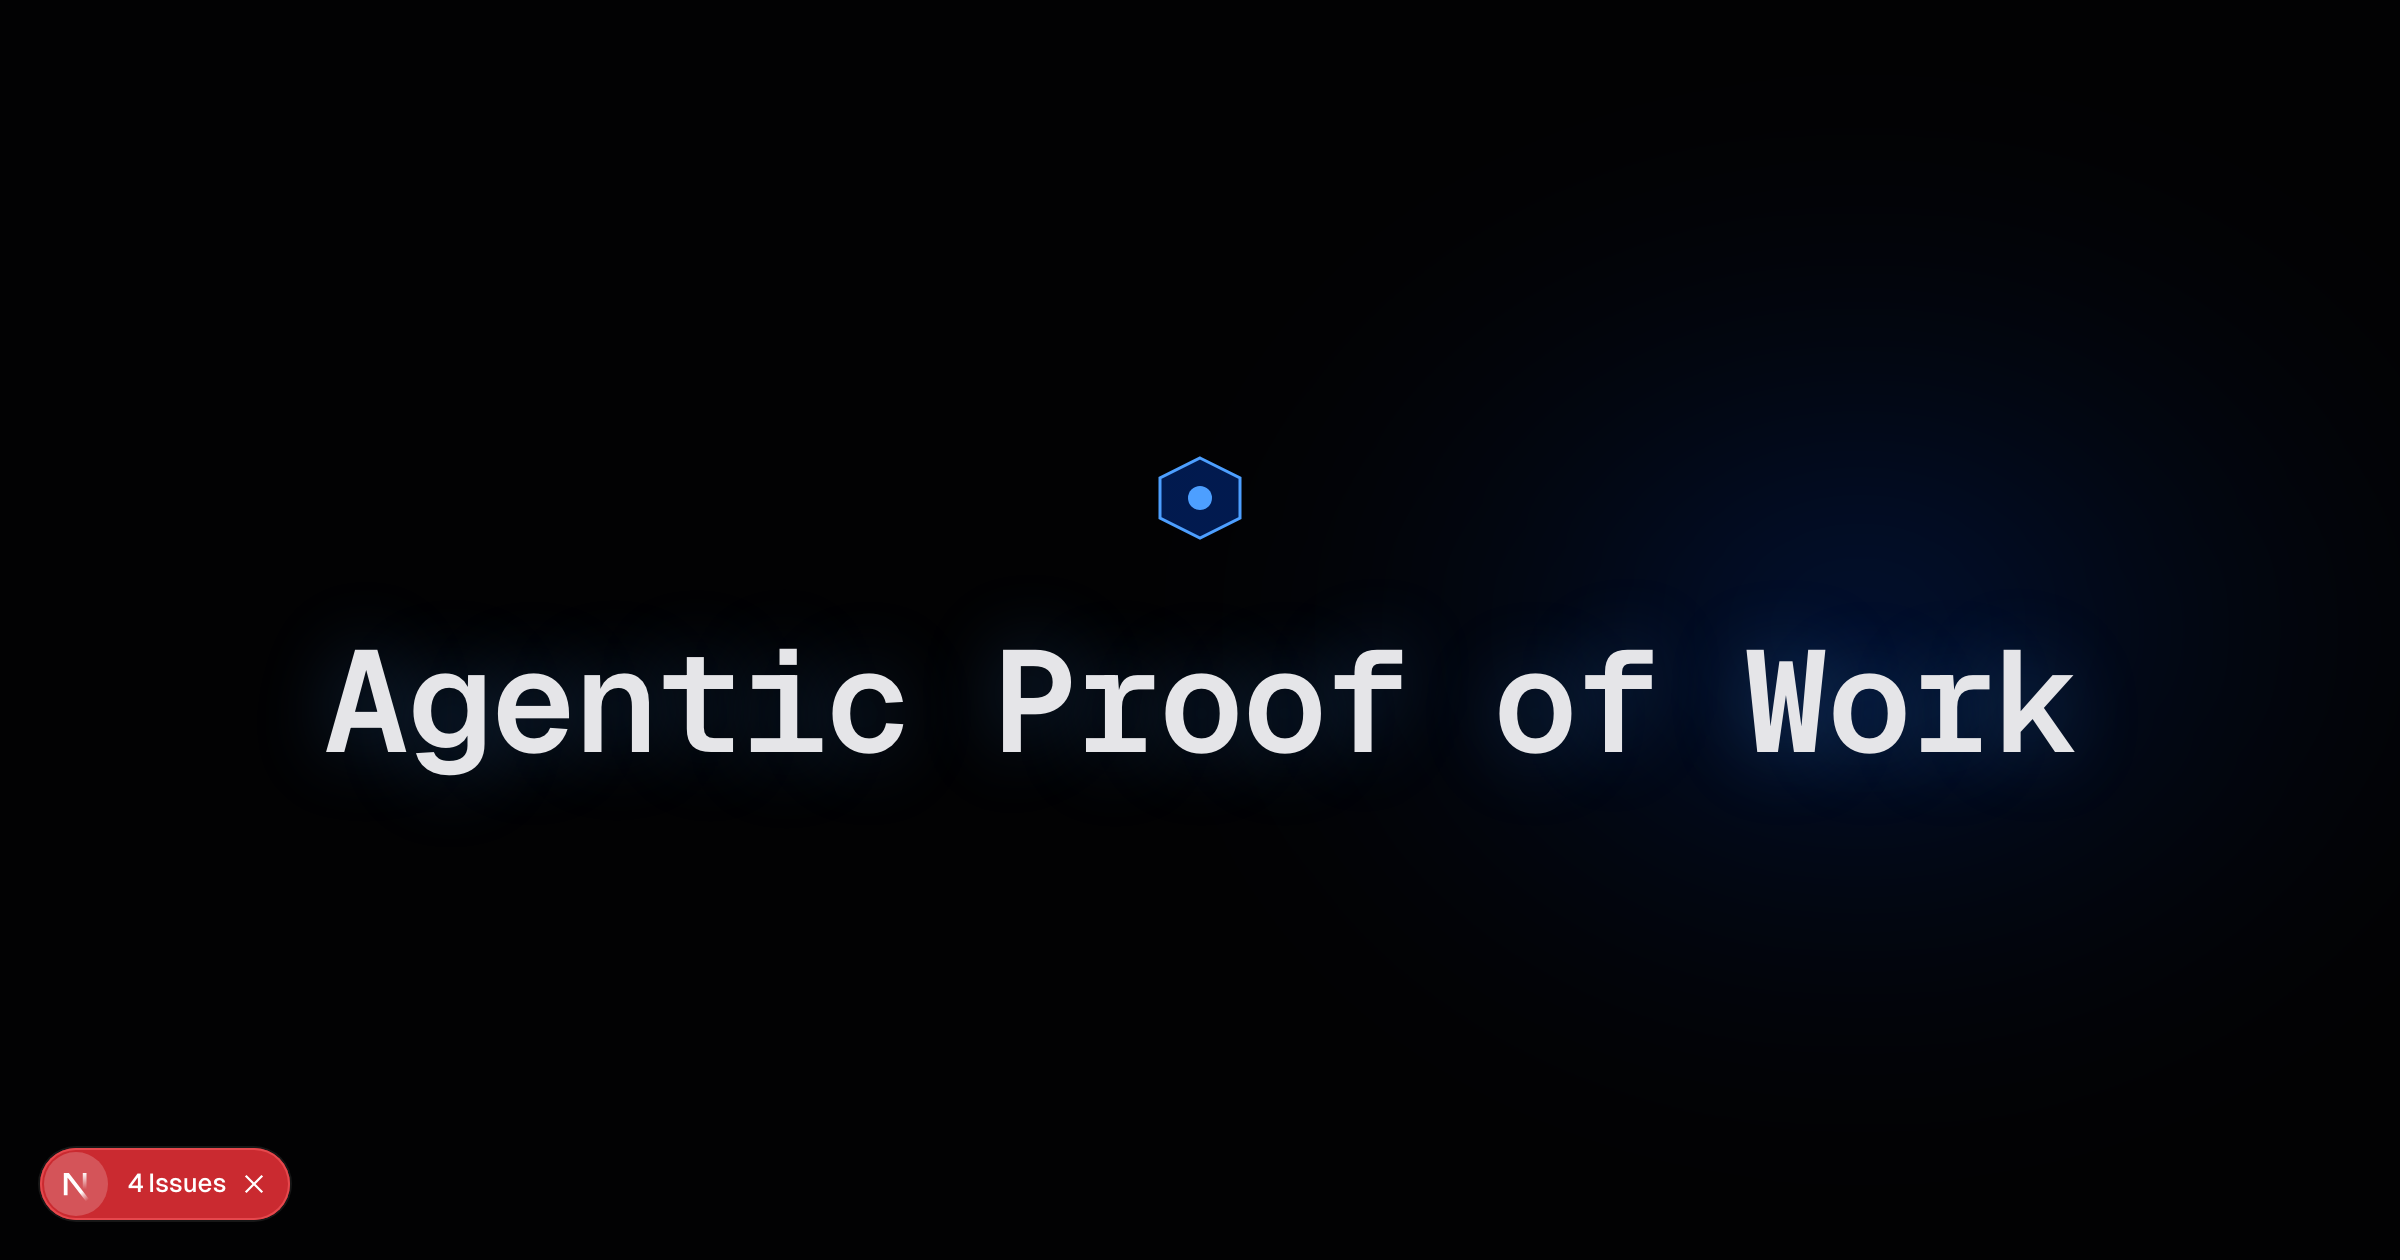
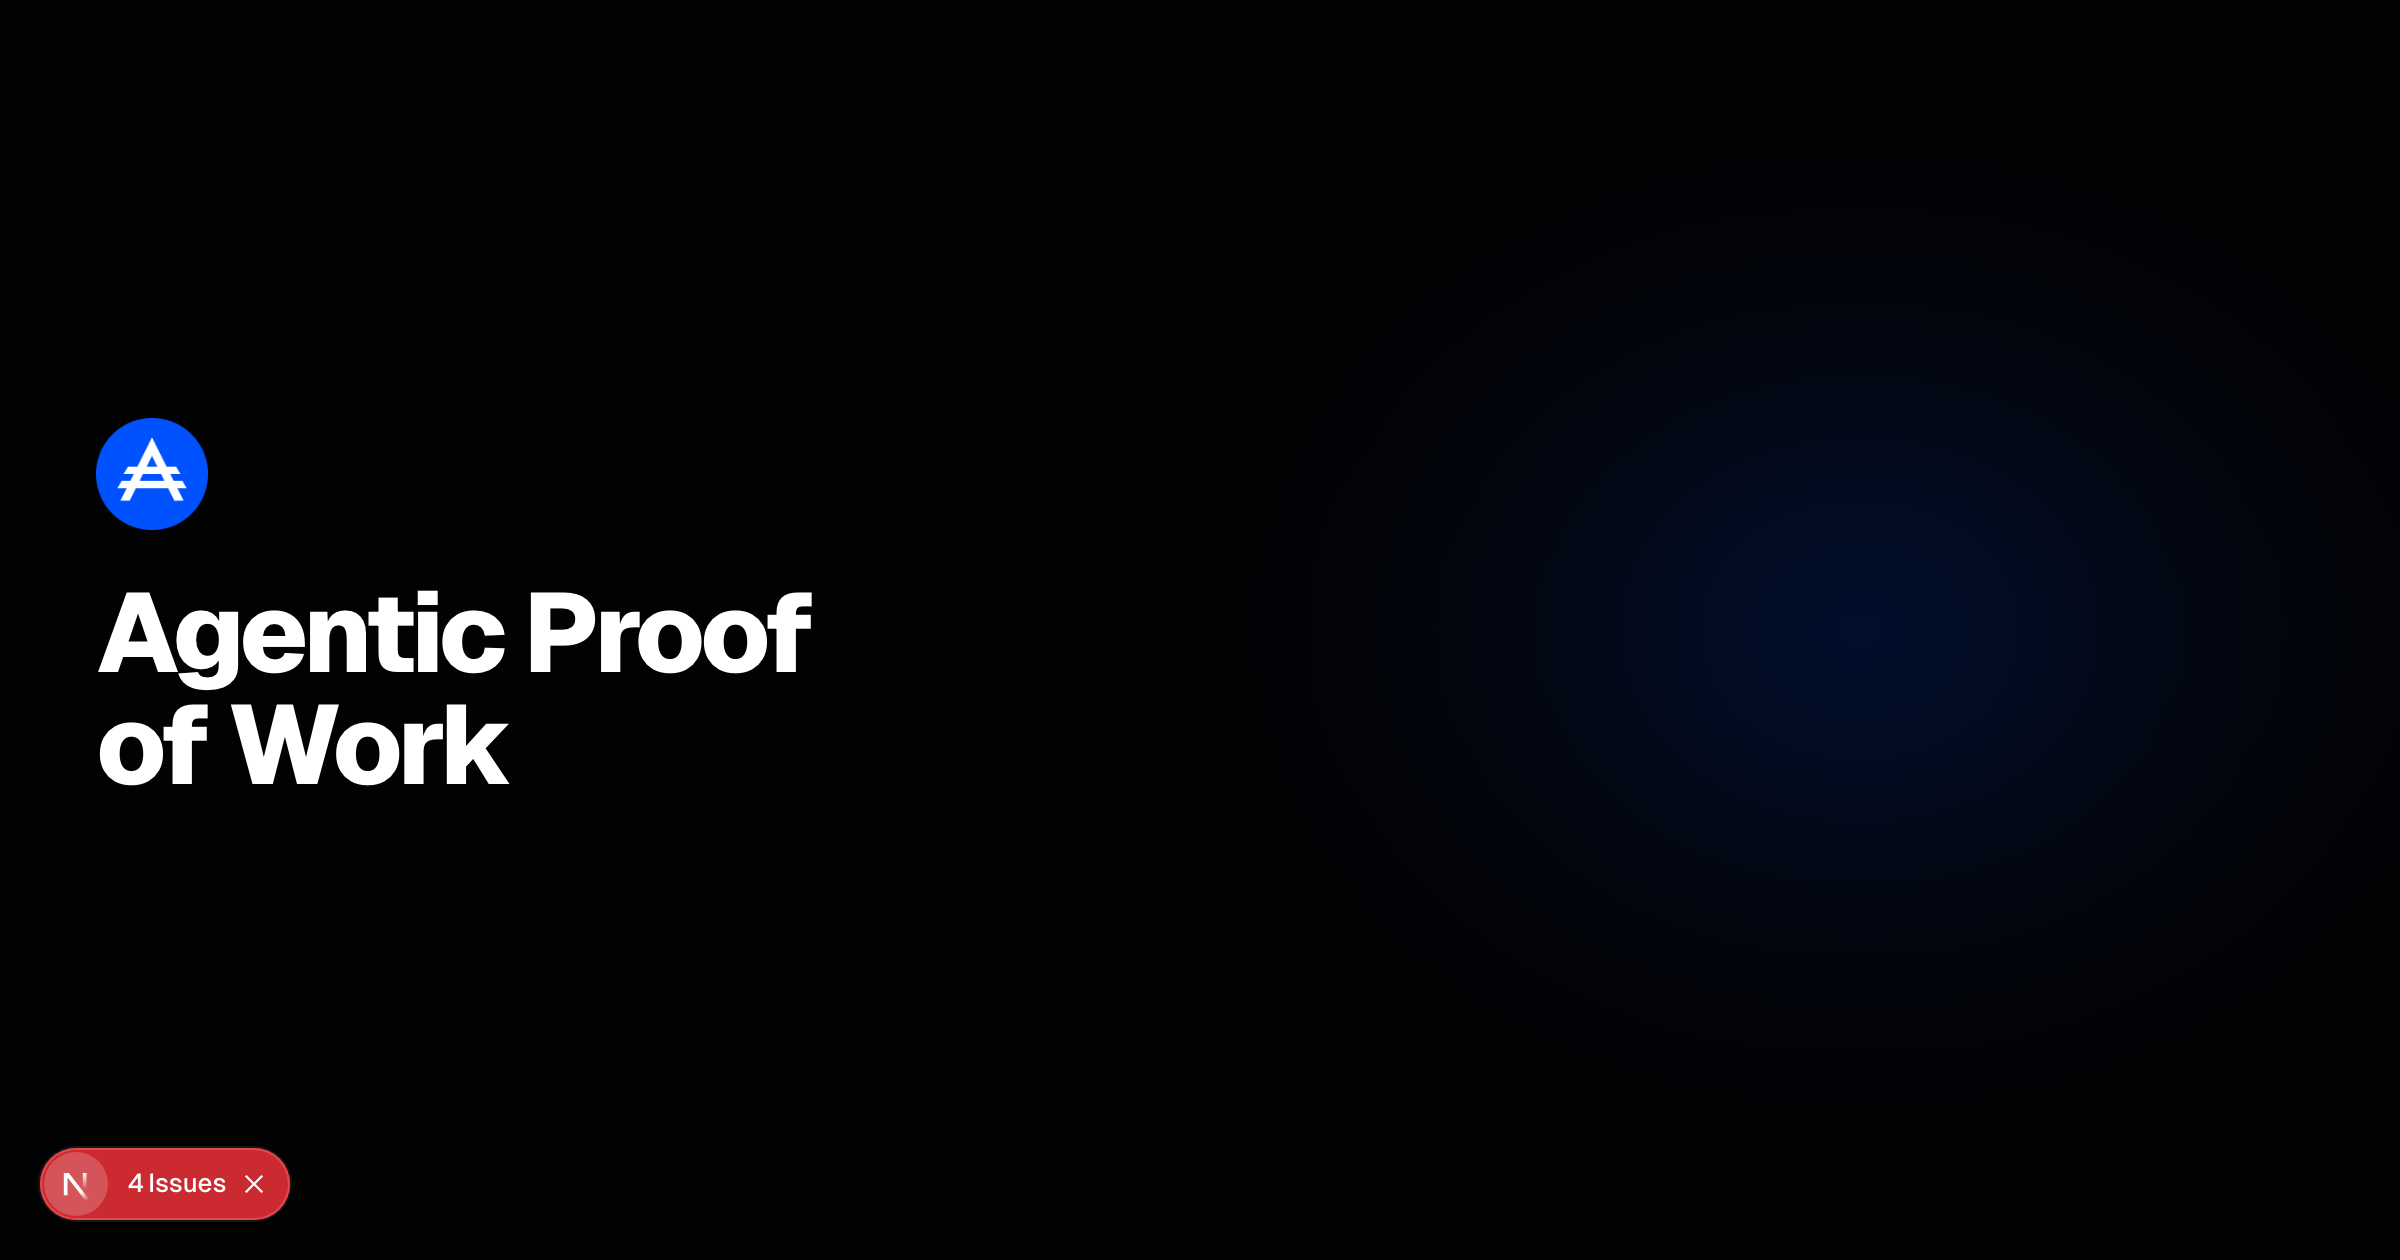
Fix OG preview to exactly match hero section
- Use exact same layout, fonts, and sizing as main hero
- Include actual logo.png image
- Match DitheredHero positioning and styling
- Remove custom SVG, use real components

diff --git a/apps/website/src/app/og-preview/page.tsx b/apps/website/src/app/og-preview/page.tsx
@@ -12,44 +12,19 @@ export default function OGPreview() {
 
   return (
     <div className="w-[1200px] h-[630px] bg-[oklch(0.09_0.005_270)] relative overflow-hidden">
-      {/* WebGL Background */}
+      {/* WebGL Background - exact same as hero */}
       <div className="absolute inset-0">
         <DitheredHero onReady={() => setReady(true)} />
       </div>
 
-      {/* Content Overlay */}
-      <div className="absolute inset-0 flex items-center justify-center">
-        <div className="text-center">
-          {/* Logo */}
-          <div className="flex items-center justify-center gap-3 mb-6">
-            <svg width="48" height="48" viewBox="0 0 48 48" fill="none">
-              <path
-                d="M24 4L44 14V34L24 44L4 34V14L24 4Z"
-                fill="url(#grad)"
-                stroke="#4D9FFF"
-                strokeWidth="1.5"
-              />
-              <circle cx="24" cy="24" r="6" fill="#4D9FFF" />
-              <defs>
-                <linearGradient id="grad" x1="24" y1="4" x2="24" y2="44">
-                  <stop offset="0%" stopColor="#0052FF" stopOpacity="0.3" />
-                  <stop offset="100%" stopColor="#0052FF" stopOpacity="0.1" />
-                </linearGradient>
-              </defs>
-            </svg>
-          </div>
-
-          {/* Title */}
-          <h1
-            className="font-mono tracking-[-0.02em] mb-0"
-            style={{
-              fontSize: "72px",
-              fontWeight: 600,
-              color: "#e5e5e8",
-              textShadow: "0 0 40px rgba(77, 159, 255, 0.3)",
-            }}
-          >
-            Agentic Proof of Work
+      {/* Content - exact same as hero section */}
+      <div className="relative z-10 flex flex-col justify-center h-full p-12">
+        <div className="max-w-[560px]">
+          <img src="/logo.png?v=2" alt="APoW" className="w-14 h-14 mb-6" />
+          <h1 className="text-[56px] font-extrabold tracking-[-0.04em] leading-[1] mb-5">
+            Agentic Proof
+            <br />
+            of Work
           </h1>
         </div>
       </div>
